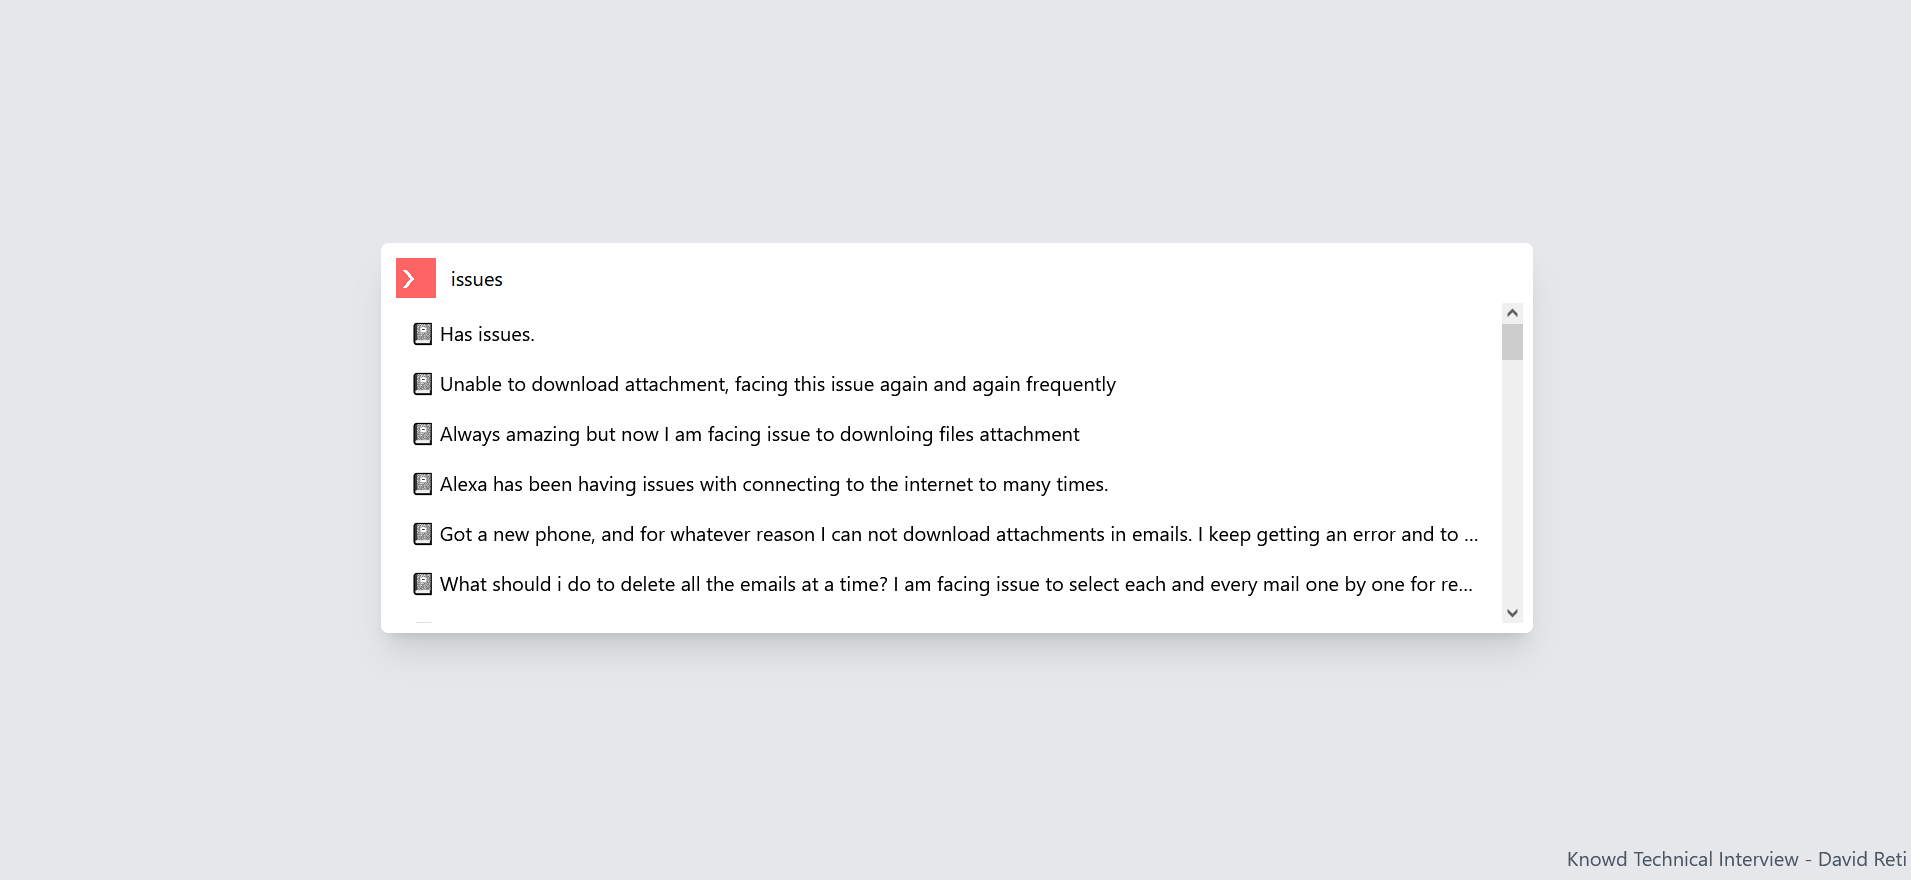
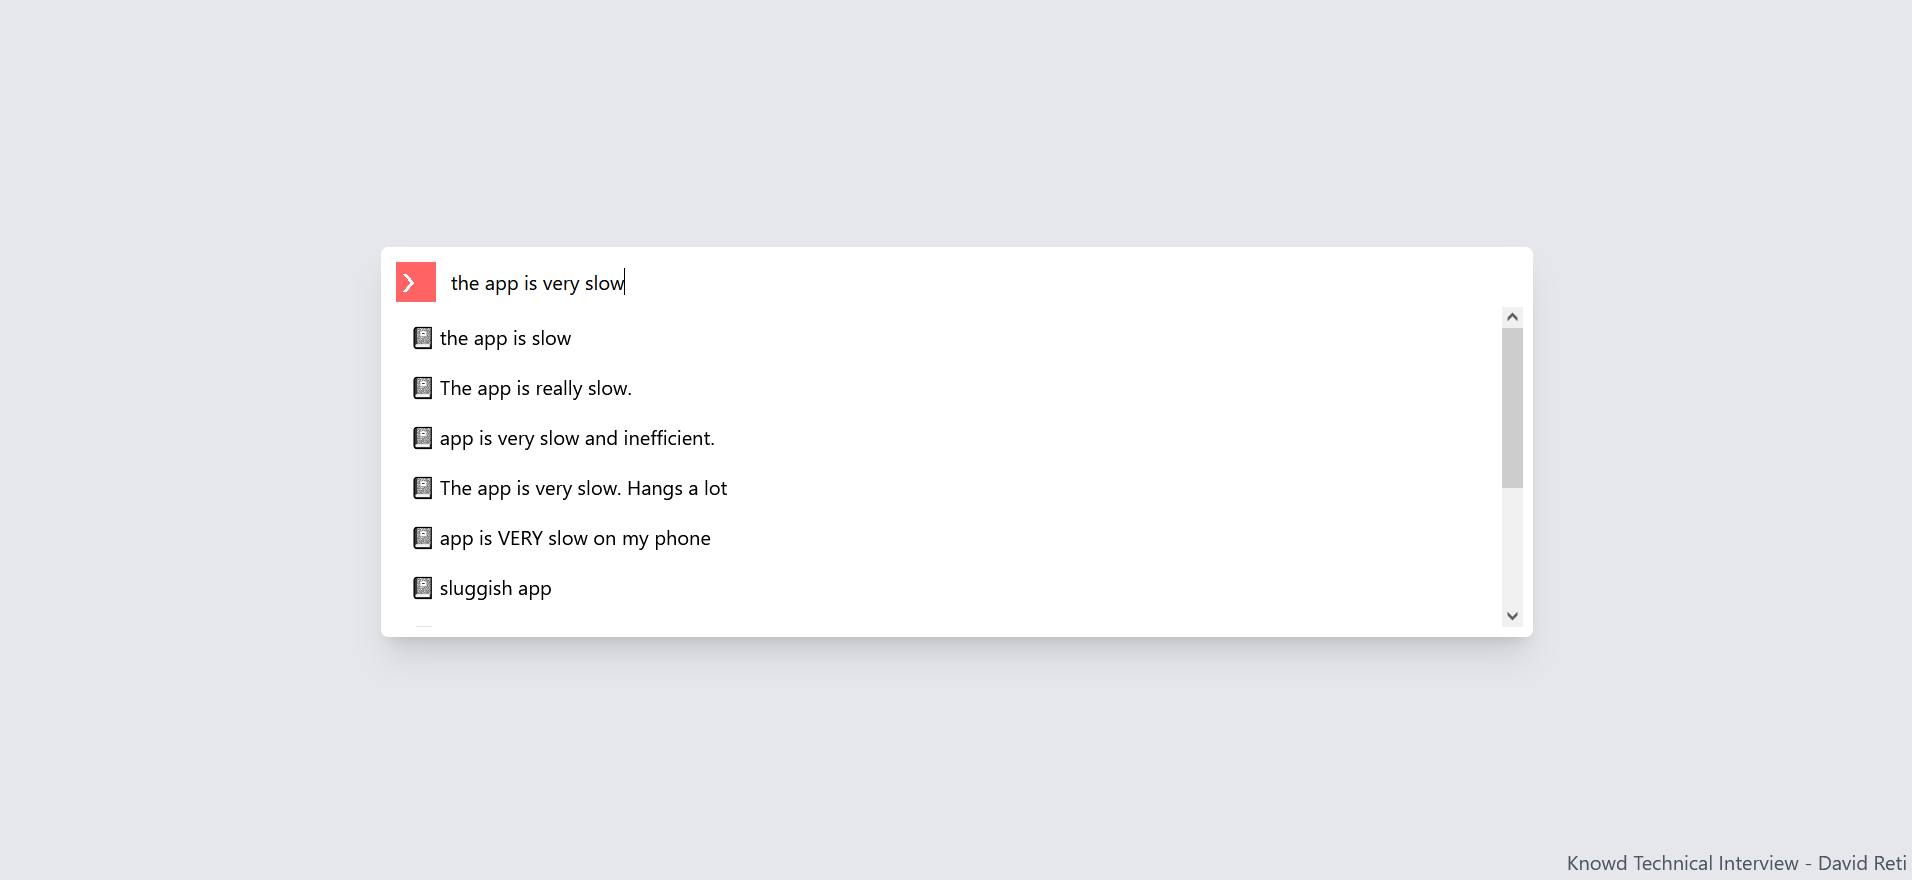
Improve smoothness of search experience

diff --git a/src/components/SearchInput.jsx b/src/components/SearchInput.jsx
@@ -9,7 +9,7 @@ import { dataset } from "../assets/dataset";
     search is a callback which is called whenever the search input changes, and searchSuggestions is a list
     of strings which will be displayed as suggestions.
 */
-const SearchInput = ({search, searchSuggestions}) => {
+const SearchInput = ({search, searchResults}) => {
     const [searchValue, setSearchValue] = useState("");
 
     // Use a 200ms debounce time for the searches to prevent overloading the worker
@@ -20,6 +20,11 @@ const SearchInput = ({search, searchSuggestions}) => {
     // Clear out the searched value when the element is clicked off
     useClickAnyWhere(() => setSearchValue(""));
 
+    const showSuggestions = searchResults.suggestions.length > 0 && 
+                            (searchResults.query === searchValue) && 
+                            (searchQuery === searchValue) && 
+                            searchQuery;
+
     return (
         <label className="p-2 rounded-md bg-white shadow-xl w-5/6 md:w-3/5 max-w-[1280px]">
             {/* Row containing the search icon and input */}
@@ -29,18 +34,16 @@ const SearchInput = ({search, searchSuggestions}) => {
             </div>
 
             {/* List of search suggestions - the container's max height is animated for a smoother transition */}
-            {(searchQuery === searchValue) && searchQuery ?
-                <ul className={"flex flex-col h-fit overflow-y-auto transition-[max-height] duration-200" + (searchSuggestions.length > 0 ? "max-h-64 p-1" : "max-h-0")}>
-                    {searchSuggestions.map((suggestion, i) =>
-                        <li className="overflow-x-hidden" key={i}>
-                            <button className="p-3 leading-4 w-full hover:bg-gray-300 text-left whitespace-nowrap text-ellipsis" onClick={() => alert(`Selected: ${suggestion}`)}>
-                                &#128211; {dataset[suggestion].text}
-                            </button>
-                        </li>
-                    )}
-                </ul> :
-                searchValue && <ThreeDots stroke='grey' fill='grey' strokeOpacity={1} fillOpacity={1} className='mx-auto my-10'/>
-            }
+            <ul className={"flex flex-col h-fit overflow-y-auto transition-[max-height] duration-200 " + (showSuggestions ? "max-h-64 p-1" : "max-h-0")}>
+                {searchResults.suggestions.map((suggestion, i) =>
+                    <li className="overflow-x-clip" key={i}>
+                        <button className="p-3 leading-4 w-full hover:bg-gray-300 text-left whitespace-nowrap text-ellipsis" onClick={() => alert(`Selected: ${suggestion}`)}>
+                            &#128211; {dataset[suggestion].text}
+                        </button>
+                    </li>
+                )}
+            </ul>
+            { !showSuggestions && searchValue && <ThreeDots stroke='grey' fill='grey' height={12.5} strokeOpacity={1} fillOpacity={1} className='mx-auto my-24'/> }
         </label>
     );
 }

diff --git a/src/search-engine/worker.js b/src/search-engine/worker.js
@@ -24,9 +24,9 @@ self.addEventListener('message', async e => {
         // When the embeddings are loaded from a file, the float value are split into chunks and matched with the dataset
         case 'load_embeddings':
             // Split the array into chunks of 1024 elements, one for each key in the dataset
-            const floats = e.data.embeddings.reduce((all,one,i) => {
-                const ch = Math.floor(i/1024); 
-                all[ch] = [].concat((all[ch]||[]),one); 
+            const floats = e.data.embeddings.reduce((all, one, i) => {
+                const ch = Math.floor(i / 1024); 
+                all[ch] = [].concat((all[ch] || []), one); 
                 return all;
             }, []);
              
@@ -67,7 +67,8 @@ self.addEventListener('message', async e => {
 
             self.postMessage({
                 type: 'search_results',
-                results: results
+                query: e.data.text,
+                results: results,
             });
             break;
         default:

diff --git a/src/App.js b/src/App.js
@@ -10,7 +10,7 @@ const GENERATE_EMBEDDINGS = false;
 const App = () => {
     const worker = useRef(null);
     const [loading, setLoading] = useState(true);
-    const [searchResults, setSearchResults] = useState({suggestions: []});
+    const [searchResults, setSearchResults] = useState({query: "", suggestions: []});
 
     const handleWorkerEvents = useCallback(e => {
         switch(e.data.type) {
@@ -43,7 +43,8 @@ const App = () => {
             // When search results come in, update the state which is reflected on the search page
             case 'search_results':
                 setSearchResults({
-                    suggestions: e.data.results.map(result => result.id)
+                    suggestions: e.data.results.map(result => result.id),
+                    query: e.data.query
                 });
                 break;
             // When all the embeddings have been generated, download them as a binary file

diff --git a/src/pages/SearchPage.jsx b/src/pages/SearchPage.jsx
@@ -15,7 +15,8 @@ const SearchPage = ({loading, setSearchResults, searchResults, worker}) => {
                 text: searchQuery
             });
         } else {
-            setSearchResults({suggestions: []});
+            // If the search query is empty, clean out all the search results (reset to empty array)
+            setSearchResults({query: "", suggestions: []});
         }
     }, [ setSearchResults, worker ]);
 
@@ -26,7 +27,7 @@ const SearchPage = ({loading, setSearchResults, searchResults, worker}) => {
                 <h2 className="text-2xl mt-12 ml-12">Loading model and precomputed embeddings...</h2>
             </div> : 
             <div className="container mx-auto h-full flex justify-center items-center">
-                <SearchInput search={search} searchSuggestions={searchResults.suggestions}/>
+                <SearchInput search={search} searchResults={searchResults}/>
             </div>
     );
 }
